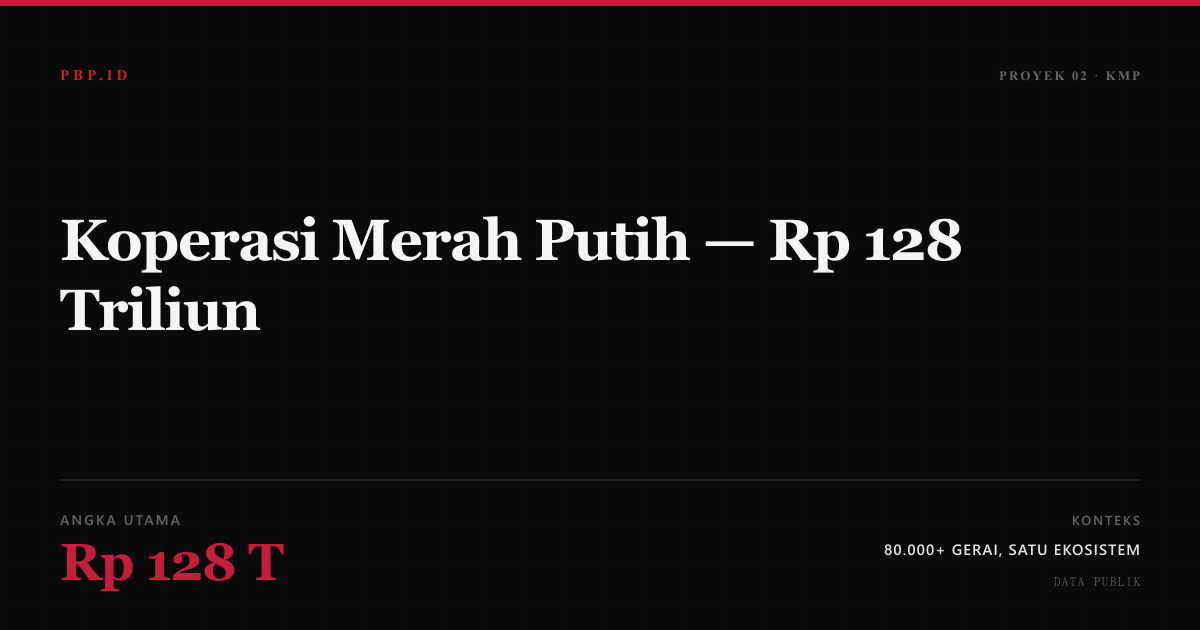
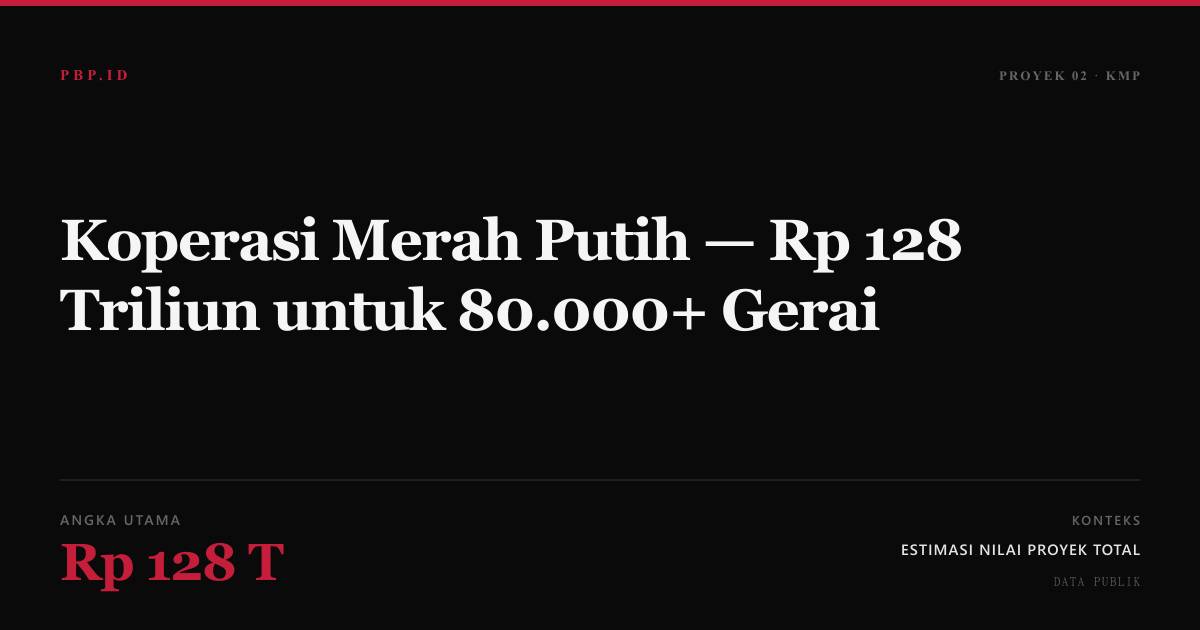
refactor: single source of truth for entries via data/entries.json

Changed region(s): [[0.2158, 0.4524, 0.74, 0.5429], [0.74, 0.8444, 0.9558, 0.9048]]

diff --git a/frontend/lib/entry.ts b/frontend/lib/entry.ts
@@ -1,12 +1,16 @@
 // PBP.ID — Entri loader & slug registry
 // Server-only. Loads a single case_study_*.json and enriches it with
 // pre-computed facts (severity counts, people/orgs split, budget totals).
+//
+// Registry itself lives in frontend/data/entries.json so that:
+//   - non-developers can add entries by editing JSON only
+//   - the OG image generator (Node, build-time) reads the exact same file
+//   - there is a single source of truth
 
 import { isCaseStudy, type CaseStudy, type Entity, type RedFlag } from "@/types/graph";
+import registry from "@/data/entries.json";
 
-// ─── Slug registry ───────────────────────────────────────────────────────────
-// Each entry slug maps to a case_study JSON file + editorial metadata.
-// Adding a new entry = add a row here.
+// ─── Types ───────────────────────────────────────────────────────────────────
 
 export interface EntryMeta {
   readonly slug: string;
@@ -14,19 +18,19 @@ export interface EntryMeta {
   readonly file: string;           // "case_study_bgn_peruri.json"
   readonly title: string;
   readonly subtitle: string;
-  readonly lede: string;           // 1–2 sentence lead paragraph
+  readonly lede: string;
   readonly severity: "CRITICAL" | "ACTIVE" | "VERIFIED";
-  readonly thread: string;         // "Thread A — BGN & Peruri"
-  readonly categoryShort: string;  // "MBG", "BGN", "KMP"
+  readonly thread: string;
+  readonly categoryShort: string;
   readonly categoryLong: string;
-  readonly anggaranFokus?: string; // headline budget line, e.g. "Rp 600 M"
+  readonly anggaranFokus?: string;
   readonly anggaranLabel?: string;
   readonly findings: readonly EntryFinding[];
   readonly timeline: readonly EntryTimelineEvent[];
 }
 
 export interface EntryFinding {
-  readonly tag: string;            // "Temuan", "Anomali", "Konflik"
+  readonly tag: string;
   readonly title: string;
   readonly body: string;
   readonly relatedEntityIds?: readonly string[];
@@ -34,150 +38,22 @@ export interface EntryFinding {
 }
 
 export interface EntryTimelineEvent {
-  readonly date: string;           // "2024-08-15" or "Aug 2024"
+  readonly date: string;
   readonly event: string;
   readonly source?: string;
 }
 
-export const ENTRY_REGISTRY: readonly EntryMeta[] = [
-  {
-    slug: "bgn-peruri",
-    code: "PROYEK 01",
-    file: "case_study_bgn_peruri.json",
-    title: "Sistem Informasi Gizi BGN — Rp 600 Miliar",
-    subtitle: "BUMN percetakan uang memenangkan kontrak sistem informasi kesehatan, tanpa tender.",
-    lede: "Badan Gizi Nasional memberi kontrak Rp 600 miliar kepada Perum Peruri — BUMN percetakan dokumen berharga — lewat penunjukan langsung. Entri ini mencatat angka, jalur pengadaan, dan entitas yang muncul di dokumen publik.",
-    severity: "CRITICAL",
-    thread: "Thread A — BGN & Peruri",
-    categoryShort: "BGN",
-    categoryLong: "Badan Gizi Nasional",
-    anggaranFokus: "Rp 600 M",
-    anggaranLabel: "Kontrak penunjukan langsung",
-    findings: [
-      {
-        tag: "Pengadaan",
-        title: "Peruri tercatat menerima proyek IT senilai Rp 600 miliar.",
-        body: "Peruri secara historis adalah BUMN percetakan dokumen berharga. Kontrak sistem informasi kesehatan diberikan via penunjukan langsung kepada anak perusahaannya, PT Peruri Digital Security (PDS), tanpa tender kompetitif terbuka.",
-        relatedEntityIds: ["org-bgn", "org-peruri", "org-pds"],
-        relatedRedFlagIds: ["rf-001"],
-      },
-      {
-        tag: "Jabatan",
-        title: "Nama pejabat Kemenkes muncul di kursi komisaris PDS.",
-        body: "Setiaji, Chief DTO Kementerian Kesehatan, duduk sebagai Komisaris Utama PDS — lembaga yang menerima kontrak IT dari lembaga pemerintah. Wakil Direktur Utama, Rahmat Danu Andika, sebelumnya menjabat Direktur GovTech Procurement di pemerintahan.",
-        relatedEntityIds: ["person-setiaji", "person-danu-andika", "org-pds"],
-      },
-      {
-        tag: "Pemilik Manfaat",
-        title: "Satu CEO, dua perusahaan, akumulasi kontrak ~Rp 700 M.",
-        body: "Shoraya Lolyta Oktaviana terdaftar sebagai pemilik manfaat dua entitas berbeda (PT IMI dan PT NSP), yang keduanya memenangkan paket pengadaan rak Koperasi Merah Putih dengan nilai kumulatif ~Rp 695 miliar.",
-        relatedEntityIds: ["person-shoraya", "org-imi", "org-nsp"],
-        relatedRedFlagIds: ["rf-008"],
-      },
-      {
-        tag: "Harga",
-        title: "Sikat dan semir sepatu SPPI diadakan dengan markup ~300%.",
-        body: "Harga satuan di Inaproc mencapai Rp 50.000–56.000 per unit, dibandingkan harga pasar eceran Rp 18.000–19.000. Total alokasi Rp 1,57 miliar untuk 12 paket kontrak via E-Purchasing.",
-        relatedEntityIds: ["proj-bgn-sikat-sepatu", "org-gajah-mitra"],
-        relatedRedFlagIds: ["rf-012"],
-      },
-    ],
-    timeline: [
-      { date: "Okt 2024", event: "BGN dibentuk via Perpres No. 83/2024 sebagai Lembaga Pemerintah Non-Kementerian.", source: "Perpres 83/2024" },
-      { date: "Jan 2025", event: "Anggaran BGN 2025 ditetapkan Rp 71 triliun untuk program MBG.", source: "APBN 2025" },
-      { date: "Mar 2025", event: "Kontrak Sistem Informasi Gizi Rp 600 M diberikan ke Peruri via penunjukan langsung.", source: "LPSE" },
-      { date: "Okt 2025", event: "Temuan anomali harga tablet Samsung Galaxy Tab Active5 (markup Rp 7,95 juta/unit).", source: "Jawa Pos, ICW" },
-      { date: "Feb 2026", event: "Pengadaan sikat & semir sepatu Rp 1,57 M dengan markup 300% viral di media.", source: "Tempo, Detik" },
-      { date: "Apr 2026", event: "Audit silang AHU + LPSE menampilkan dua entitas pemilik manfaat Shoraya Lolyta Oktaviana.", source: "Arsip PBP.ID" },
-    ],
-  },
-  {
-    slug: "agrinas-kmp",
-    code: "PROYEK 02",
-    file: "case_study_agrinas_kmp.json",
-    title: "Koperasi Merah Putih — Rp 128 Triliun untuk 80.000+ Gerai",
-    subtitle: "Konstruksi puluhan ribu gerai jatuh ke satu ekosistem perusahaan.",
-    lede: "PT Agrinas dan jejaring terkaitnya tercatat sebagai pelaksana konstruksi puluhan ribu gerai Koperasi Merah Putih. Skalanya besar, vendornya sedikit.",
-    severity: "VERIFIED",
-    thread: "Thread C — Agrinas & KMP",
-    categoryShort: "KMP",
-    categoryLong: "Koperasi Merah Putih",
-    anggaranFokus: "Rp 128 T",
-    anggaranLabel: "Estimasi nilai proyek total",
-    findings: [
-      {
-        tag: "Konsentrasi Vendor",
-        title: "80.000+ gerai tercatat dilaksanakan oleh satu ekosistem.",
-        body: "PT Agrinas dan jejaring entitas afiliasinya memegang kontrak konstruksi untuk lebih dari 80.000 gerai Koperasi Merah Putih. Skala ini meniadakan ruang partisipasi kontraktor lokal dan kompetisi harga terbuka.",
-      },
-      {
-        tag: "Selisih Harga",
-        title: "Selisih ~Rp 700 juta per gerai di Denpasar.",
-        body: "Anggaran per unit gerai di dokumen pengadaan berbeda dari penilaian fisik lapangan. Studi kasus Denpasar mencatat selisih hingga Rp 700 juta per unit antara nilai kontrak dan nilai konstruksi riil.",
-      },
-      {
-        tag: "Jabatan Strategis",
-        title: "Menhan aktif tercatat sebagai pimpinan ex-officio YPPSDP.",
-        body: "YPPSDP adalah yayasan induk ekosistem Agrinas. Menteri Pertahanan aktif menjabat sebagai pimpinan ex-officio yayasan ini, menyambungkan regulator anggaran pertahanan dengan operator proyek infrastruktur desa.",
-      },
-      {
-        tag: "Lokasi Barang",
-        title: "Ribuan unit rak SPPG tersimpan di gudang Pusziad TNI AD, Cileungsi.",
-        body: "Catatan lapangan publik menyebut ribuan unit rak proyek SLO (Sarana Logistik Operasional) yang seharusnya terdistribusi ke SPPG ditemukan tersimpan di gudang militer Pusziad TNI AD Cileungsi.",
-      },
-    ],
-    timeline: [
-      { date: "2024", event: "YPPSDP direstrukturisasi di bawah Kemenhan; Menhan menjadi pimpinan ex-officio." },
-      { date: "Feb 2025", event: "Program Koperasi Merah Putih resmi diluncurkan dengan target 80.000+ gerai." },
-      { date: "Mei 2025", event: "Kontrak konstruksi mayoritas tercatat jatuh ke ekosistem Agrinas." },
-      { date: "Okt 2025", event: "Penilaian fisik lapangan di Denpasar mencatat selisih ~Rp 700 juta/unit." },
-      { date: "Jan 2026", event: "Ribuan unit rak SLO ditemukan tersimpan di gudang Pusziad Cileungsi." },
-      { date: "Apr 2026", event: "Pemetaan AHU mencatat 57 relasi dalam ekosistem Agrinas." },
-    ],
-  },
-  {
-    slug: "motor-bgn",
-    code: "PROYEK 03",
-    file: "case_study_motor_bgn.json",
-    title: "Motor Listrik MBG — Rp 1,4 Triliun",
-    subtitle: "Vendor pemenang terdaftar sebagai saksi di berkas perkara bansos KPK.",
-    lede: "Kontrak pengadaan motor listrik Rp 1,4 triliun untuk distribusi Makan Bergizi Gratis dimenangkan PT Yasa Artha. Nama direksinya juga tercatat di berkas perkara bansos yang ditangani KPK.",
-    severity: "ACTIVE",
-    thread: "Thread B — Logistik MBG",
-    categoryShort: "MBG",
-    categoryLong: "Makan Bergizi Gratis",
-    anggaranFokus: "Rp 1,4 T",
-    anggaranLabel: "Kontrak pengadaan motor listrik",
-    findings: [
-      {
-        tag: "Jejak Nama",
-        title: "Direksi vendor tercatat di berkas perkara bansos KPK.",
-        body: "Jajaran direksi PT Yasa Artha tercatat dalam berkas penyidikan KPK sebagai saksi kunci kasus dugaan korupsi pengadaan bansos. Fakta ini tidak mengubah status vendor dalam sistem pengadaan pemerintah.",
-      },
-      {
-        tag: "Angka Besar",
-        title: "Rp 1,4 triliun untuk satu lini logistik.",
-        body: "Alokasi Rp 1,4 T untuk motor listrik saja merupakan porsi signifikan dari total anggaran logistik MBG. Tidak ada dokumen publik yang menjustifikasi pilihan teknologi atau unit cost.",
-      },
-      {
-        tag: "Nama Berulang",
-        title: "Ekosistem vendor MBG tumpang tindih dengan ekosistem Agrinas.",
-        body: "Beberapa entitas vendor yang muncul di paket logistik MBG juga tercatat sebagai pemasok di ekosistem Agrinas/KMP. Pola ini menunjukkan konsentrasi pasar yang sempit.",
-      },
-    ],
-    timeline: [
-      { date: "Feb 2025", event: "RUP pengadaan motor listrik MBG diumumkan dalam SiRUP." },
-      { date: "Jun 2025", event: "PT Yasa Artha ditetapkan sebagai pemenang kontrak Rp 1,4 T." },
-      { date: "Agu 2025", event: "Audit silang KPK mencatat keterlibatan direksi Yasa Artha dalam kasus bansos." },
-      { date: "Nov 2025", event: "Distribusi motor listrik dimulai; laporan lapangan mencatat inkonsistensi spesifikasi." },
-    ],
-  },
-] as const;
+// ─── Registry access ─────────────────────────────────────────────────────────
 
-export const ENTRY_SLUGS = ENTRY_REGISTRY.map((d) => d.slug);
+// Cast the JSON import to the typed registry. The JSON is validated against
+// this shape via tsc (with resolveJsonModule), so a malformed entry fails
+// build rather than runtime.
+export const ENTRY_REGISTRY: readonly EntryMeta[] = registry as readonly EntryMeta[];
+
+export const ENTRY_SLUGS = ENTRY_REGISTRY.map((e) => e.slug);
 
 export function getEntryMeta(slug: string): EntryMeta | null {
-  return ENTRY_REGISTRY.find((d) => d.slug === slug) ?? null;
+  return ENTRY_REGISTRY.find((e) => e.slug === slug) ?? null;
 }
 
 // Returns the union of relatedEntityIds across all findings, deduplicated.